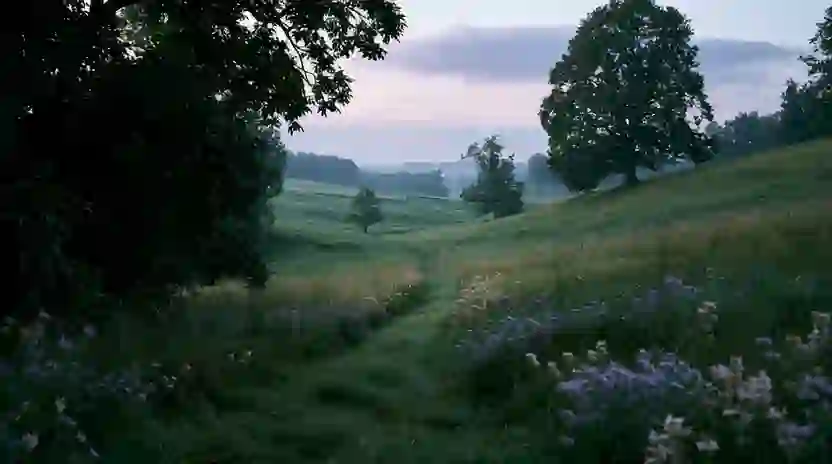
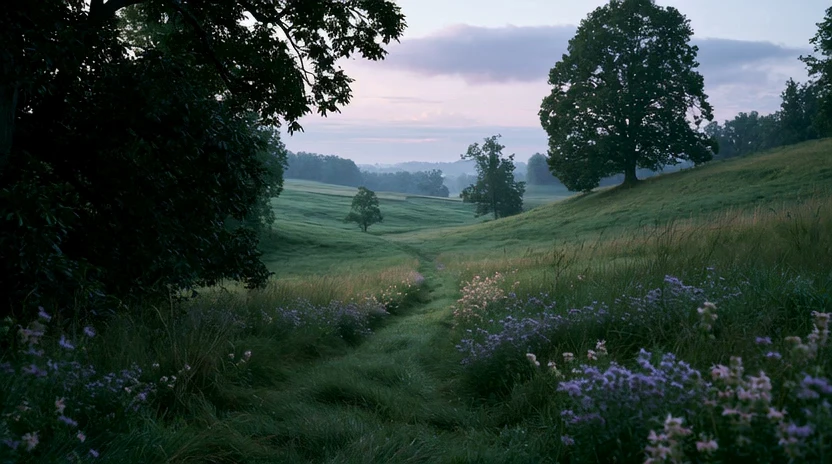
Add files via upload

diff --git a/index.html b/index.html
@@ -4463,10 +4463,16 @@ body.phase-3 .mob-tabs {
 
 
 /* ══ INTRO ANIMATION (v26 integration) ══ */
-#intro-screen { pointer-events: none; } /* disable old click-anywhere handler */
+#intro-screen { cursor: default; }
+#intro-screen::before { opacity: 0 !important; } /* kill old noise overlay */
+#intro-screen::after { display: none !important; } /* kill old glow overlay */
+#intro-screen .scene { pointer-events: none; }
 #intro-screen .start-area,
 #intro-screen .btn-area,
-#intro-screen .dev-skip { pointer-events: auto; }
+#intro-screen .dev-skip,
+#intro-screen .begin-btn,
+#intro-screen .enter-btn,
+#intro-screen .intro-btn-continue { pointer-events: auto !important; cursor: pointer; }
 
 #intro-screen .scene {
   position: absolute; inset: 0;
@@ -4715,7 +4721,7 @@ body.phase-3 .mob-tabs {
     <div class="vignette"></div>
     <div class="black-overlay" id="blackOverlay"></div>
     <div class="start-area" id="startArea">
-      <button class="begin-btn" id="intro-begin">Begin your journey</button>
+      <button class="begin-btn" id="intro-begin" onclick="if(window._cbtsBegin)window._cbtsBegin(event)">Begin your journey</button>
       <button class="intro-btn intro-btn-continue" id="intro-continue" style="display:none">continue<span class="intro-resume-dot"> \u00B7 </span><span id="intro-resume-title"></span></button>
     </div>
     <div class="title-area" id="titleArea">
@@ -8745,6 +8751,7 @@ loadGame();
 
 // ══ INTRO ANIMATION SYSTEM (v26 integration) ══
 (function initIntroAnimation() {
+  try {
   const video = document.getElementById('introVideo');
   const pixelCanvas = document.getElementById('pixelCanvas');
   const blackOverlay = document.getElementById('blackOverlay');
@@ -8765,6 +8772,12 @@ loadGame();
     console.log('Intro animation elements not found — skipping init');
     return;
   }
+
+  // Neutralise old intro click-anywhere handler
+  const introEl = document.getElementById('intro-screen');
+  introEl.addEventListener('click', function(e) {
+    e.stopImmediatePropagation();
+  }, true); // capturing phase — fires before old handler
 
   let glitchTime = 10;
   video.addEventListener('loadedmetadata', () => {
@@ -8881,10 +8894,10 @@ loadGame();
   }
 
   // "Begin your journey" — starts the video animation
-  document.getElementById('intro-begin').addEventListener('click', function(e) {
-    e.stopPropagation();
+  function beginJourney(e) {
+    if (e) e.stopPropagation();
     if (!video) return;
-    getCbtsAudioCtx(); // ensure audio context from user gesture
+    try { getCbtsAudioCtx(); } catch(err) { console.log('Audio ctx:', err); }
 
     startArea.classList.add('hidden');
 
@@ -8897,7 +8910,7 @@ loadGame();
     video.currentTime = 0;
     video.classList.add('playing');
     if (poster) poster.style.display = 'none';
-    video.play().catch(() => {});
+    video.play().catch((err) => { console.log('Video play failed:', err); });
 
     const checkTime = () => {
       if (video.currentTime >= glitchTime) {
@@ -8907,6 +8920,14 @@ loadGame();
       }
     };
     requestAnimationFrame(checkTime);
+  }
+
+  // Expose globally for onclick fallback
+  window._cbtsBegin = beginJourney;
+
+  document.getElementById('intro-begin').addEventListener('click', function(e) {
+    e.stopImmediatePropagation();
+    beginJourney(e);
   });
 
   // "Enter" — show warm welcome screen
@@ -8931,6 +8952,9 @@ loadGame();
         }, 1600);
       }, 2100);
     });
+  }
+  } catch(err) {
+    console.error('Intro animation init error:', err);
   }
 })();
 
